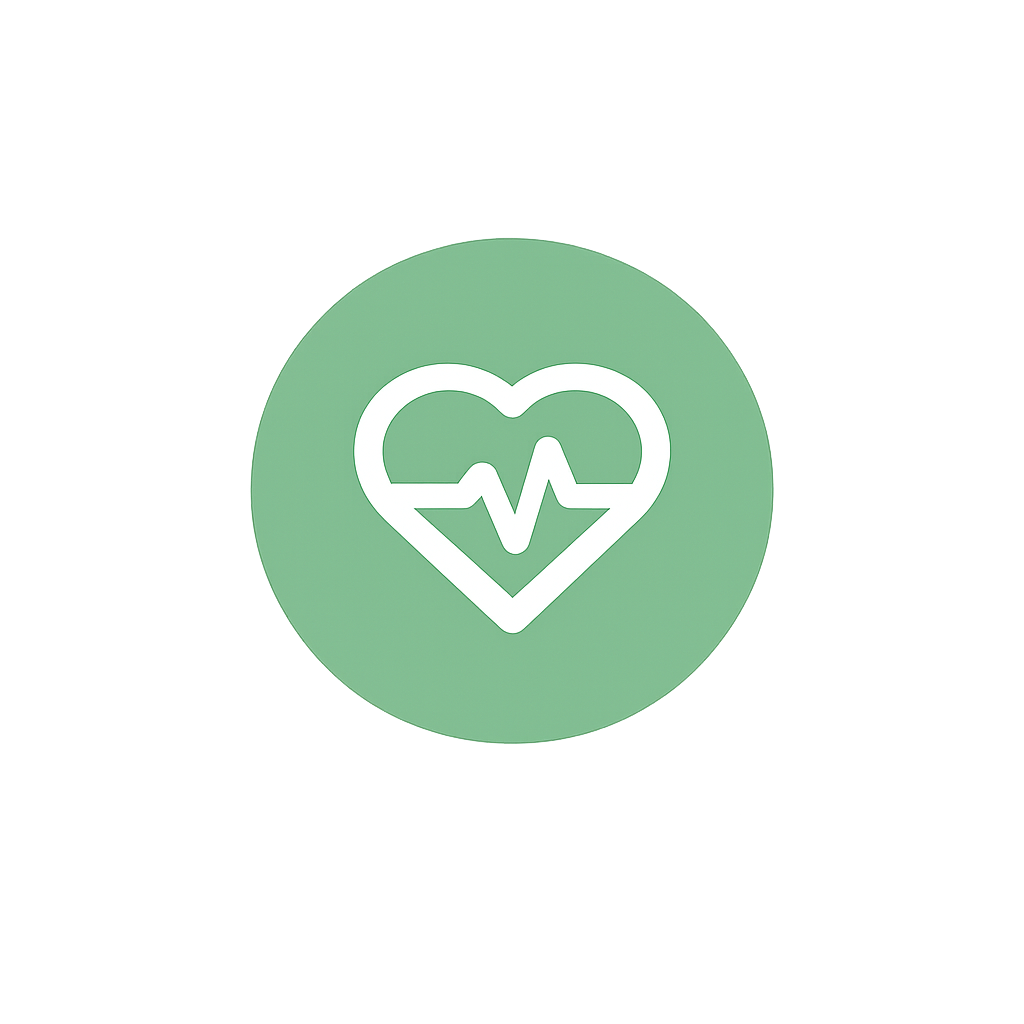
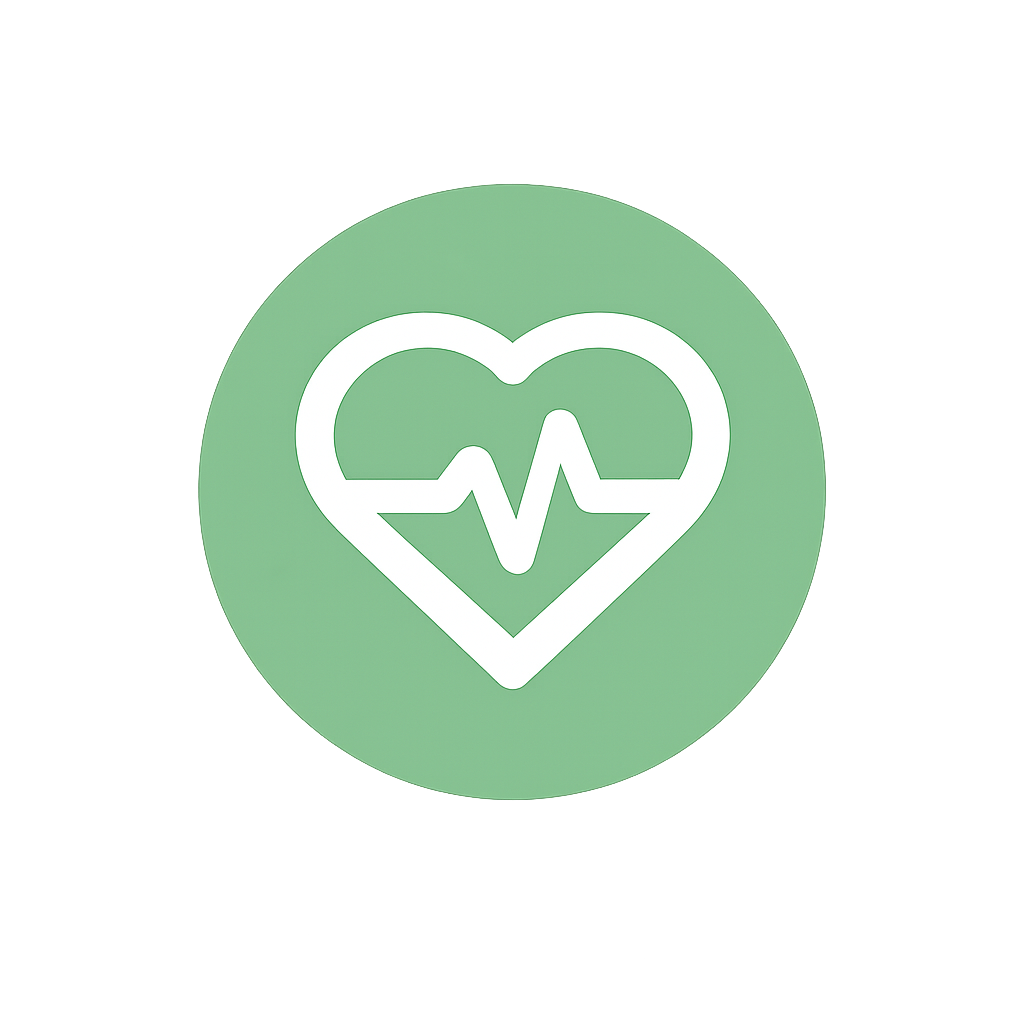
fix: Google口コミ星を黄色塗りつぶしに変更・整体アイコン差し替え

Changed region(s): [[0.1875, 0.1562, 0.8125, 0.7812]]

diff --git a/src/app/(main)/voice/page.tsx b/src/app/(main)/voice/page.tsx
@@ -64,13 +64,11 @@ function StarIcon() {
     <svg
       xmlns="http://www.w3.org/2000/svg"
       viewBox="0 0 24 24"
-      fill="none"
-      stroke="currentColor"
-      strokeWidth="1.5"
+      fill="currentColor"
       className="h-4 w-4 text-yellow-400"
       aria-hidden="true"
     >
-      <path strokeLinejoin="round" d="M12 2l3.09 6.26L22 9.27l-5 4.87 1.18 6.88L12 17.77l-6.18 3.25L7 14.14 2 9.27l6.91-1.01L12 2z" />
+      <path d="M12 2l3.09 6.26L22 9.27l-5 4.87 1.18 6.88L12 17.77l-6.18 3.25L7 14.14 2 9.27l6.91-1.01L12 2z" />
     </svg>
   );
 }
